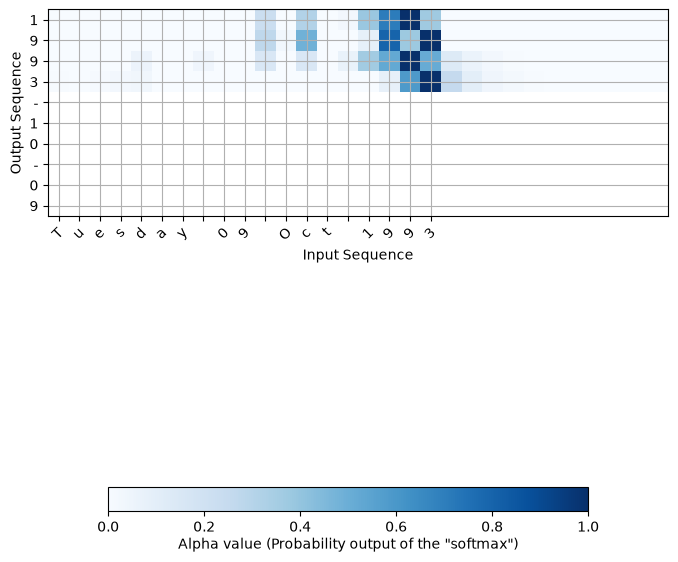
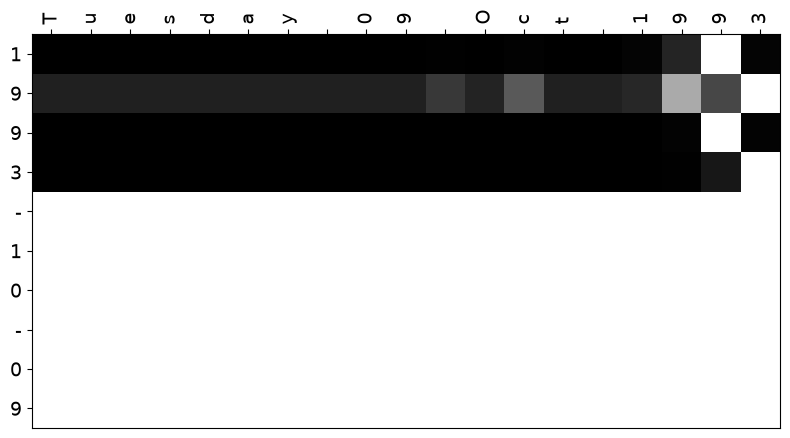
plot bug pesos

diff --git a/src/plot_attention_map.py b/src/plot_attention_map.py
@@ -45,7 +45,7 @@ def plot_attention_map(modelx, input_vocabulary, inv_output_vocabulary, text, n_
         context = modelx.layers[8]([alphas, a])
         # Don't forget to pass: initial_state = [hidden state, cell state] (≈ 1 line)
         s, _, c = modelx.layers[10](context, initial_state = [s, c]) 
-        outputs.append(energies)
+        outputs.append(alphas)
 
     f = Model(inputs=[X, s0, c0], outputs = outputs)
     
@@ -62,9 +62,16 @@ def plot_attention_map(modelx, input_vocabulary, inv_output_vocabulary, text, n_
         for t_prime in range(Tx):
             attention_map[t][t_prime] = r[t][0, t_prime,0]
 
-    # Normalize attention map
+    input_length = len(text)
+
+    # 1. Normalizar PRIMEIRO (isso garante que o pico real no padding seja o 1.0)
+    print(attention_map[4:10, :input_length])
+    
     row_max = attention_map.max(axis=1)
-    attention_map = attention_map / row_max[:, None]
+    attention_map = attention_map / np.where(row_max == 0, 1, row_max)[:, None]
+
+    # 2. Cortar DEPOIS (agora as linhas finais terão valores próximos a 0.0)
+    attention_map = attention_map[:, :input_length]
 
     prediction = modelx.predict([encoded, s0, c0])
     
@@ -107,7 +114,7 @@ def plot_attention_map(modelx, input_vocabulary, inv_output_vocabulary, text, n_
     ax.grid()
 
     plt.show()
-
-    f.savefig("attention_map.png", bbox_inches="tight")
     
     return attention_map
+
+    #TESTEE

diff --git a/src/model.py b/src/model.py
@@ -127,7 +127,7 @@ outputs = list(Yoh.swapaxes(0,1))
 # model.fit([Xoh, s0, c0], outputs, epochs=100, batch_size=100)
 # model.save_weights("pesos100epocas.weights.h5")
 
-model.load_weights('pesos100epocas.weights.h5')
+model.load_weights('weights/model.h5')
 
 def translate_date(sentence):
     s00 = np.zeros((1, n_s))
